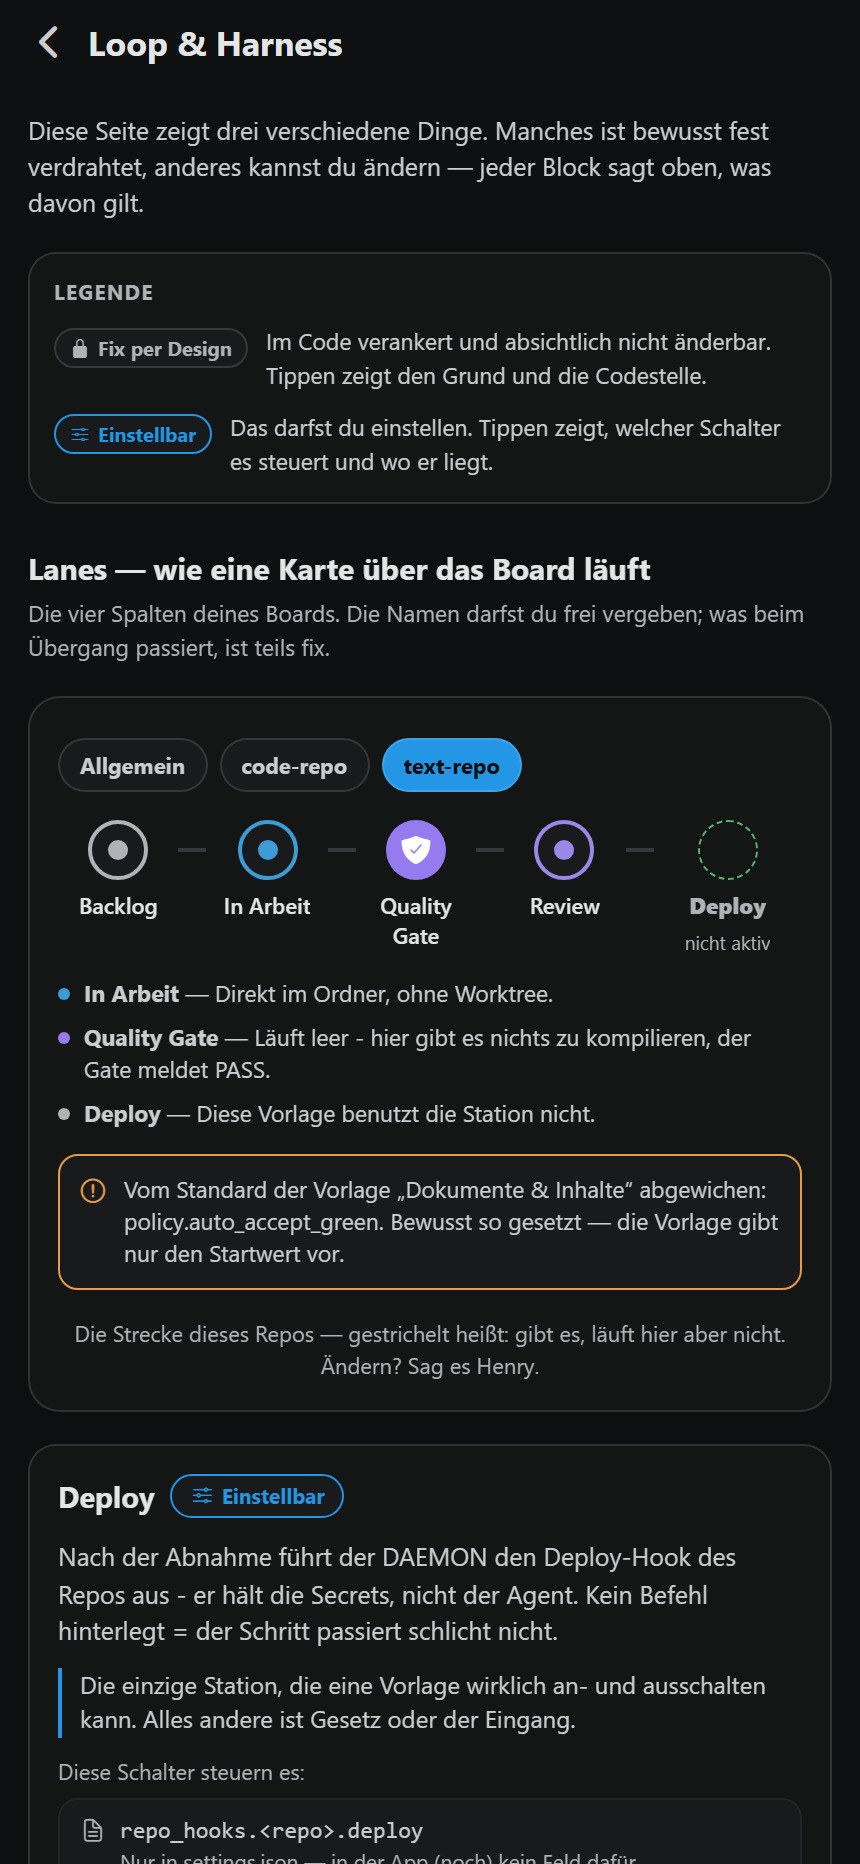
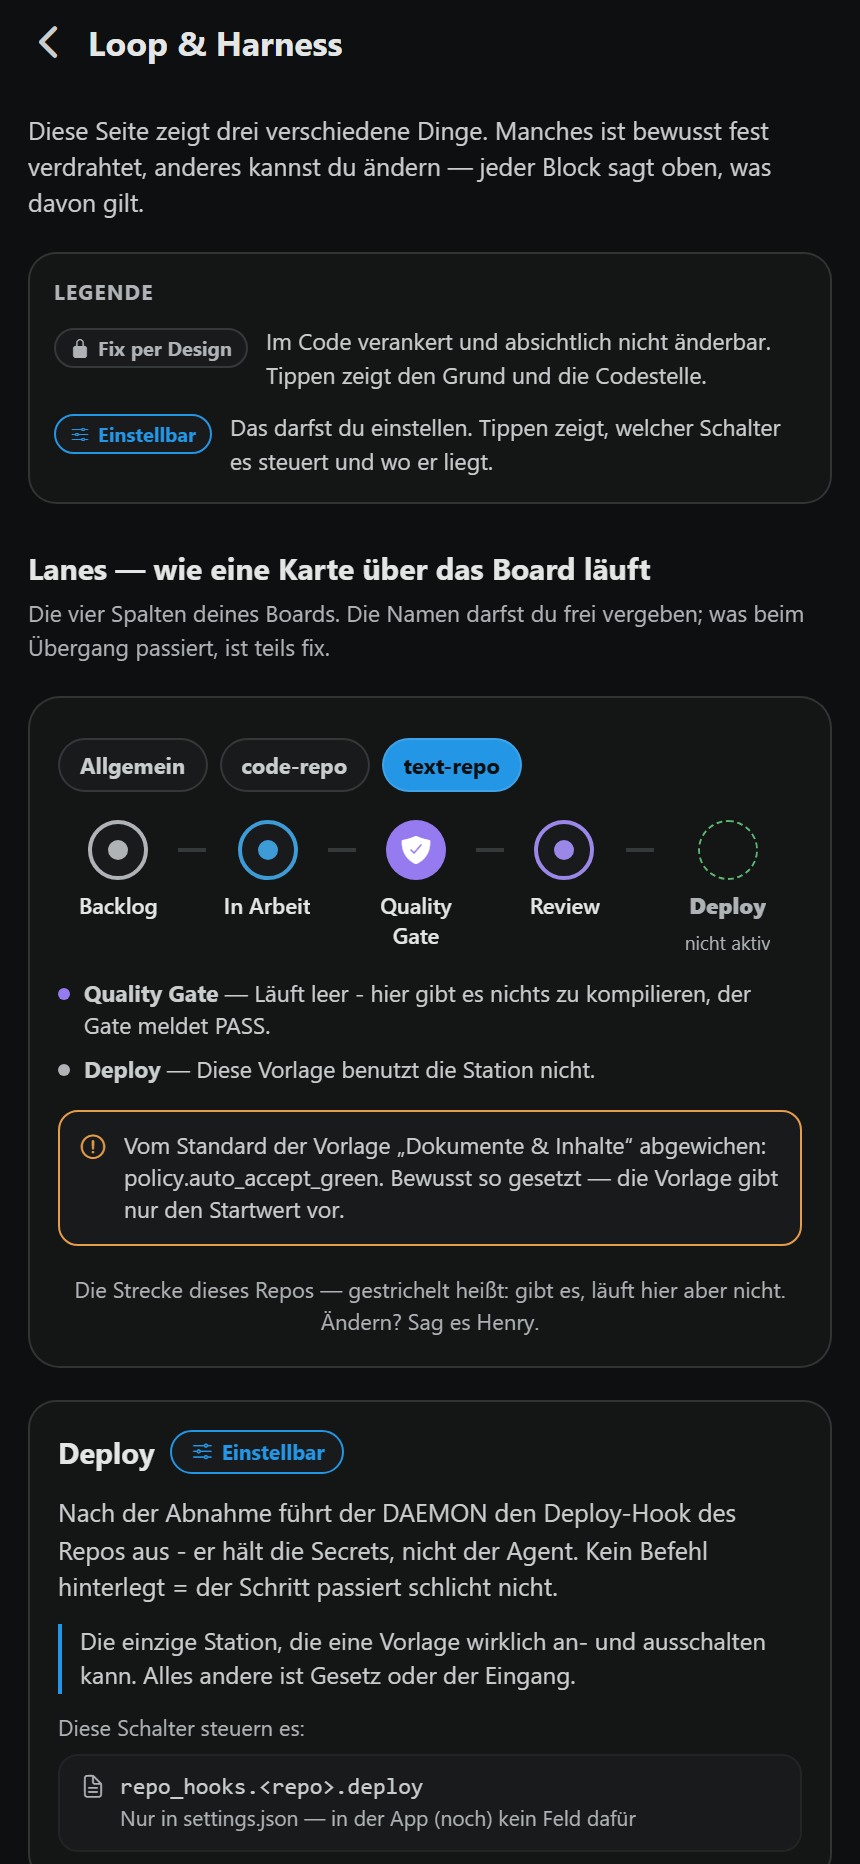
fix(repo): eine Vorlage darf nicht versprechen, was der Code noch nicht haelt
Beim Nachpruefen des eigenen Werks: die Doku-Vorlage warb mit "Direkt im Ordner
statt im Worktree" - und `card_kind` liest niemand. dispatch.py entscheidet
Worktree oder nicht bis heute pro KARTE, nicht pro Repo. Das ist genau der
Fehler, gegen den templates.py in seinem eigenen Docstring argumentiert: ein
Wert, der Erfolg meldet und nichts bewirkt.

Also raus aus Summary und Notiz, im Fliesstext beim Namen genannt, und als
Schuld eingetragen (repo-template-card-kind-unwired). Das Feld bleibt - der PRD
fuehrt es in §3.1/§3.2 ausdruecklich als "neu als Repo-Default", es ist also
angemeldete, keine erledigte Arbeit.

Zweite Schuld, gemessen statt vermutet: repo-template-policy-presets-still-global.
Die policy.*-Vorbelegungen einer Vorlage gehen weiterhin in den EINEN globalen
settings-Blob, also verschiebt eine Vorlage fuer Repo B dieselben Werte bei
Repo A. Stumm ist es nicht - die Abweichung wird beim Schreiben festgehalten und
die Karte zeigt "vom Standard abgewichen" (PRD §5 hat genau diesen Handel
akzeptiert) - aber sichtbares Driften ist Driften. Der Beweis liegt im Bild:
ops/docs/shots/harness/repo-code.png zeigt am Code-Repo zwei Abweichungen, die
es nie bestellt hat.

Und der Weg hinein: /repo hing an keiner Navigation. Ein Screen, den niemand
erreicht, ist nicht ausgeliefert - Zeile in "App & System", eigenes Icon,
gated auf projects.view wie die Route selbst. Mitgeschossen (repo-nav.png), denn
[…]

Changed region(s): [[0.0302, 0.529, 0.9674, 1.0], [0.0605, 0.6534, 0.0907, 0.6845]]

diff --git a/surfaces/app/src/i18n/dict/chrome.ts b/surfaces/app/src/i18n/dict/chrome.ts
@@ -41,6 +41,7 @@ export const chrome: Dict = {
   "more.sub.sessions": { de: "Chat-Verläufe der Agenten", en: "Agent chat transcripts" },
   "more.sub.recordings": { de: "Mitschnitte erledigter Arbeit", en: "Recordings of finished work" },
   "more.sub.settings": { de: "Team, Geräte, Import, Nachtschicht", en: "Team, devices, import, night shift" },
+  "more.sub.repo": { de: "Repo-Typ wählen — die Vorlage belegt den Rest vor", en: "Choose the repo type — the template presets the rest" },
   "more.sub.loopmap": { de: "Schaubild: wie Karten durch Gate & Review laufen", en: "Diagram: how cards flow through gate & review" },
   "more.sub.feedback": { de: "Wunsch oder Problem melden", en: "Report a wish or a problem" },
   "more.device.section": { de: "Dieses Gerät", en: "This device" },

diff --git a/surfaces/app/src/nav/more_groups.ts b/surfaces/app/src/nav/more_groups.ts
@@ -38,6 +38,7 @@ export const GROUPS: readonly [string, readonly (readonly [string, string, strin
   ]],
   ["more.grp.system", [
     ["settings", "nav.settings", "settings-outline", "more.sub.settings", "settings.read"],         // routes_settings.py settings_get: owner only (card 2)
+    ["repo", "nav.repo", "folder-open-outline", "more.sub.repo", "projects.view"],              // routes_projects.py repo_templates_get: projects.view
     ["loopmap", "nav.loopmap", "map-outline", "more.sub.loopmap", undefined],                   // /loop/map: no role check
   ]],
 ] as const;

diff --git a/surfaces/app/src/i18n/dict/settings.ts b/surfaces/app/src/i18n/dict/settings.ts
@@ -5,6 +5,7 @@ import type { Dict } from "../index";
 export const settings: Dict = {
   // ---- nav bits this area owns (the shared nav.* live in chrome.ts) ----
   "nav.loopmap": { de: "Loop & Harness", en: "Loop & harness" },
+  "nav.repo": { de: "Repo einrichten", en: "Set up repo" },
   "nav.sectionWorkflow": { de: "Ablauf", en: "Workflow" },
   "nav.sectionSetup": { de: "Einrichtung", en: "Setup" },
   "nav.filter": { de: "Filter", en: "Filter" },

diff --git a/spine/registry/debt.py b/spine/registry/debt.py
@@ -3579,6 +3579,67 @@ DEBT = [
                "of only writing the finished reply.",
         "order": 50,
     },
+    {
+        "id": "repo-template-card-kind-unwired",
+        "title": "A repo template declares its card kind, and nothing reads it",
+        "status": "open",
+        "what": "ops/harness/templates/*.md carry `card_kind` (new_track for "
+                "software-dev, new_direct_task for documents) and "
+                "spine/ops/projects.resolve() surfaces it, but no caller "
+                "consumes it: cells/engineer/dispatch.py still decides worktree "
+                "vs live-tree per CARD (new_track / new_direct_task are separate "
+                "entry points), never per repo.",
+        "why_it_bites": "It is the exact failure the templates were written to "
+                        "avoid, and spine/registry/templates.py's own docstring "
+                        "names it: a value that reports success and changes "
+                        "nothing. The PRD's tables (§3.1/§3.2) mark the card "
+                        "kind 'neu als Repo-Default', so this half was always "
+                        "future work - but until it is wired the documents "
+                        "template CANNOT promise 'direkt im Ordner'. Its prose "
+                        "and summary were reworded to stop claiming it. If "
+                        "someone re-adds that claim before wiring this, the "
+                        "screen starts lying again.",
+        "trigger": "the owner onboards a real document repo and expects its "
+                   "cards to skip the worktree without saying so per card.",
+        "fix": "OPEN. Have the card-creation path read "
+               "projects.resolve(repo)['card_kind'] as the DEFAULT entry point "
+               "(dispatch.new_track vs dispatch.new_direct_task) when the "
+               "caller did not pick one explicitly - one reader, at the one "
+               "place a card is born, not a flag copied onto every card.",
+        "order": 51,
+    },
+    {
+        "id": "repo-template-policy-presets-still-global",
+        "title": "A repo template's policy.* presets are workspace-wide, so two "
+                 "repos still overwrite each other",
+        "status": "open",
+        "what": "spine/ops/projects.apply_template() writes the per-repo half "
+                "(repo_hooks.<repo>.deploy) truly per repo, but its `settings` "
+                "presets (policy.auto_accept_green, policy.auto_dispatch_modes) "
+                "go through events.save_settings into the ONE global "
+                "settings.json blob. Applying a template to repo B therefore "
+                "moves those values for repo A too.",
+        "why_it_bites": "The decree is 'pro Repo', and for the stations, the "
+                        "deploy hook and the record itself that now holds - for "
+                        "these two policy keys it does not. It is NOT silent: "
+                        "the deviation is recorded in projects.overrides/applied "
+                        "at write time and the pipeline card renders 'vom "
+                        "Standard abgewichen' (PRD §5 accepted exactly this "
+                        "trade). But visible drift is still drift, and the "
+                        "measured proof is in ops/docs/shots/harness/"
+                        "repo-code.png: the code repo shows two deviations it "
+                        "never asked for, caused by the document repo's template "
+                        "being applied after it.",
+        "trigger": "the owner runs two repos of different types side by side "
+                   "and cares that autonomy differs between them.",
+        "fix": "OPEN. Either resolve these keys through "
+               "projects.resolve(repo)['overrides'] at every READ site (the "
+               "honest per-repo answer, and the reason `overrides` already "
+               "exists), or drop them from the templates and leave autonomy to "
+               "the dial - which is where PRD §9 A already sent "
+               "capacity.wip_limit for the same reason.",
+        "order": 52,
+    },
 ]
 
 def list_debt():

diff --git a/ops/docs/shots/shoot_repo_pipeline.py b/ops/docs/shots/shoot_repo_pipeline.py
@@ -22,8 +22,17 @@ import os
 HERE = os.path.dirname(os.path.abspath(__file__))
 OUT = os.path.join(HERE, "harness")
 
-# (name, viewport, path, [testIDs to click])
+# (name, viewport, path, [testIDs to click], scroll)
+#
+# `scroll` exists because full_page is a LIE here: react-native-web renders
+# <ScrollView> as an inner overflow:auto div, so the document never grows and a
+# full_page capture returns one viewport of wherever that container happens to
+# sit. The nav groups on /more are three screens down - without an explicit
+# scroll the shot photographs the pairing panel and proves nothing.
 SHOTS = [
+    # The way IN. A screen nobody can reach is not shipped, so the nav row that
+    # reaches it is judged too, not assumed.
+    ("repo-nav",     (430, 932),  "/more",    [], "bottom"),
     ("repo-picker",  (430, 932),  "/repo",    []),
     ("repo-docs",    (430, 932),  "/repo",    ["repo-TEXT"]),
     ("repo-code",    (430, 932),  "/repo",    ["repo-CODE"]),
@@ -84,7 +93,8 @@ def main():
         pg.goto("%s/#cfg=%s" % (base, a.cfg), wait_until="load", timeout=120000)
         pg.wait_for_timeout(9000)
 
-        for name, vp, path, clicks in SHOTS:
+        for name, vp, path, clicks, *rest in SHOTS:
+            scroll = rest[0] if rest else "top"
             pg.set_viewport_size({"width": vp[0], "height": vp[1]})
             pg.goto("%s%s#cfg=%s" % (base, path, a.cfg), wait_until="load", timeout=120000)
             pg.wait_for_timeout(2500)
@@ -105,6 +115,13 @@ def main():
                     pg.wait_for_timeout(1400)
                 except Exception as e:                       # noqa: BLE001
                     errors.append("click(%s/%s): %s" % (name, t, str(e)[:160]))
+            if scroll == "bottom":
+                got = pg.evaluate("(fn) => { const el = eval('(' + fn + ')')(); "
+                                  "if (!el) return false; el.scrollTop = el.scrollHeight; "
+                                  "return true; }", FIND_SCROLLER)
+                if not got:
+                    errors.append("scroll(%s): no scroll container found" % name)
+                pg.wait_for_timeout(900)
             p = os.path.join(OUT, "%s.png" % name)
             pg.screenshot(path=p)
             print("wrote", os.path.relpath(p, os.path.dirname(HERE)).replace("\\", "/"))

diff --git a/spine/registry/templates.py b/spine/registry/templates.py
@@ -77,7 +77,8 @@ _DEFAULTS = {
         "id": "documents",
         "label": "Dokumente & Inhalte",
         "who": "Texte, Angebote, Freigaben. Kein Build, leichte Review.",
-        "summary": "Direkt im Ordner · Gate läuft leer · kein Deploy · Abnahme bleibt Pflicht",
+        "summary": "Kein Deploy · Gate läuft leer · Entwürfe allein, Senden nicht · "
+                   "Abnahme bleibt Pflicht",
         # no `deploy`: nothing to ship. The gate stays in the list because it is
         # law - in a text repo it finds nothing to compile and reports PASS
         # (run_gate.py:68-70), which the map labels honestly instead of hiding.
@@ -87,10 +88,10 @@ _DEFAULTS = {
         "settings": {"policy.auto_accept_green": False,
                      "policy.auto_dispatch_modes": ["do", "prepare"]},
         "notes": {"gate": "Läuft leer - hier gibt es nichts zu kompilieren, "
-                          "der Gate meldet PASS.",
-                  "working": "Direkt im Ordner, ohne Worktree."},
-        "body": ("Direkt im Ordner statt im Worktree, kein Deploy. Das Gate laeuft "
-                 "leer durch - deine Abnahme bleibt Pflicht."),
+                          "der Gate meldet PASS."},
+        "body": ("Kein Deploy, das Gate laeuft leer durch, deine Abnahme bleibt "
+                 "Pflicht. (card_kind steht auf new_direct_task, wird aber noch "
+                 "nicht gelesen - Schuld repo-template-card-kind-unwired.)"),
     },
 }
 

diff --git a/ops/harness/templates/documents.md b/ops/harness/templates/documents.md
@@ -2,14 +2,13 @@
 id: documents
 label: Dokumente & Inhalte
 who: Texte, Angebote, Freigaben. Kein Build, leichte Review.
-summary: Direkt im Ordner · Gate läuft leer · kein Deploy · Abnahme bleibt Pflicht
+summary: Kein Deploy · Gate läuft leer · Entwürfe allein, Senden nicht · Abnahme bleibt Pflicht
 stations: backlog, working, gate, review
 card_kind: new_direct_task
 deploy_hook: ""
 settings.policy.auto_accept_green: false
 settings.policy.auto_dispatch_modes: ["do", "prepare"]
 note.gate: Läuft leer - hier gibt es nichts zu kompilieren, der Gate meldet PASS.
-note.working: Direkt im Ordner, ohne Worktree.
 ---
 
 Fuer Repos, in denen geschrieben statt gebaut wird: Angebote, Vertraege,
@@ -19,9 +18,12 @@ Dokumentation, Freigabe-Unterlagen.
 weg - ein leerer `repo_hooks.<repo>.deploy` heisst schlicht, dass er nicht
 passiert (`lanemachine.py:648`).
 
-**Direkt im Ordner statt im Worktree.** Ein Worktree pro Karte kostet hier nur
-Umweg: es gibt keinen Merge-Konflikt zwischen zwei Angeboten, und der Owner will
-die Datei da sehen, wo sie hingehoert.
+**Direkt im Ordner statt im Worktree - angemeldet, noch nicht automatisch.**
+`card_kind: new_direct_task` steht als Repo-Default in dieser Vorlage, aber
+gelesen wird er noch von niemandem: ob eine Karte einen Worktree bekommt,
+entscheidet bis heute die Karte, nicht das Repo. Deshalb verspricht die Vorlage
+es hier NICHT - sag es weiter pro Karte, bis die Schuld
+`repo-template-card-kind-unwired` bezahlt ist.
 
 **Das Gate bleibt an - und das ist kein Versehen.** Es laesst sich nicht
 abschalten (Harness-Gesetz), aber es findet in einem Text-Repo nichts zu
